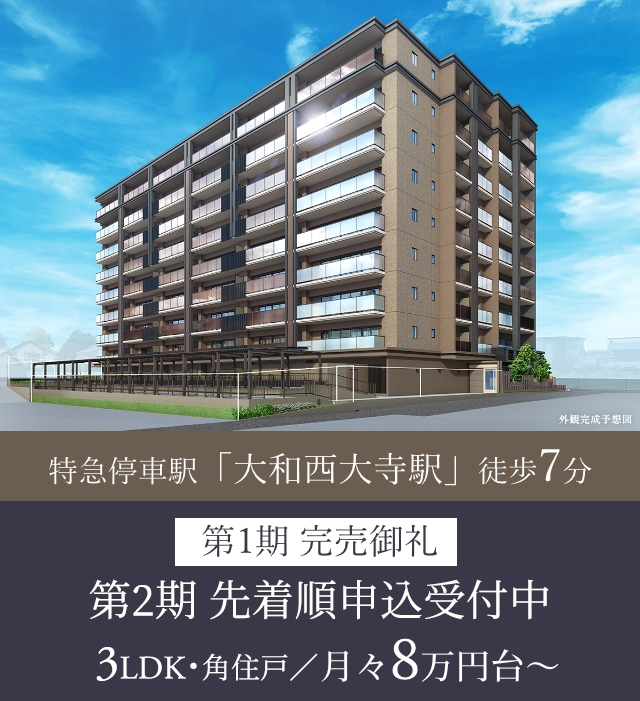
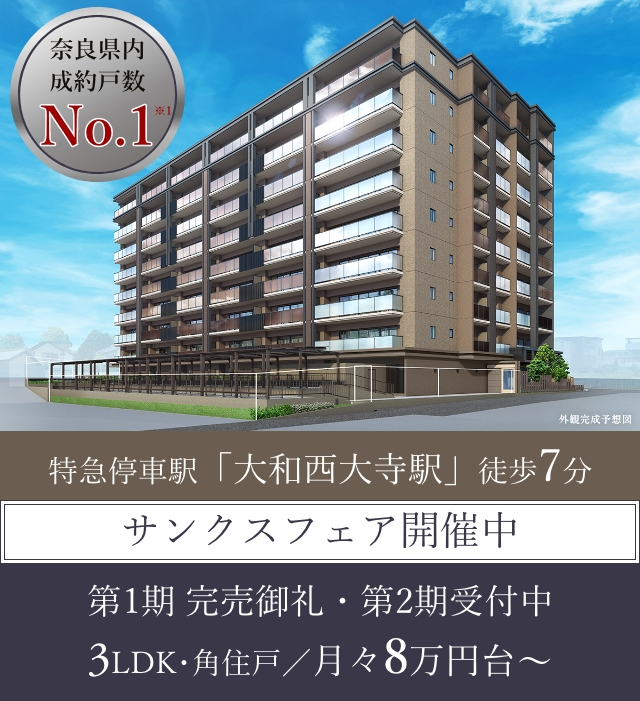
no message

diff --git a/htmlmail/230824/member.html b/htmlmail/230824/member.html
@@ -382,7 +382,6 @@ table { width: 100%; margin: 0; padding: 0; border: none; }
                 <td class="btn">
                     <a href="https://mid.secure.force.com/reserve?id=a0c5j000000erLn&utm_source=mail&utm_medium=email&utm_campaign=mail" target="_blank">
                     <img src="https://www.cielia.com/m/saidaiji61/htmlmail/attendance/06/img/btn_raijou.jpg" alt="">
-<!--                        <img src="https://cielia.com/guideline/htmlmail/template/yymmdd/img/btn_detail.png" alt="">-->
                     </a>
                 </td>
             </tr>
@@ -391,6 +390,11 @@ table { width: 100%; margin: 0; padding: 0; border: none; }
                     <a href="https://www.cielia.com/campaign2023_1/?utm_source=mail&utm_medium=email&utm_campaign=mail" target="_blank">
                         <img src="https://www.cielia.com/m/saidaiji61/htmlmail/230824/img/bnr_cp.jpg" alt="">
                     </a>
+                </td>
+            </tr>         
+            <tr>
+                <td align="center" style="line-height: 1.3; padding-top: 20px;">
+                <span style="font-size: 70%">※1.2023年3〜5月発売分において、<br>「シエリア西大寺」は奈良県内の新築分譲マンションで「成約戸数が奈良県no.1」です。<br>（2023年7月MRC調べ）</span>
                 </td>
             </tr>
         </table>
